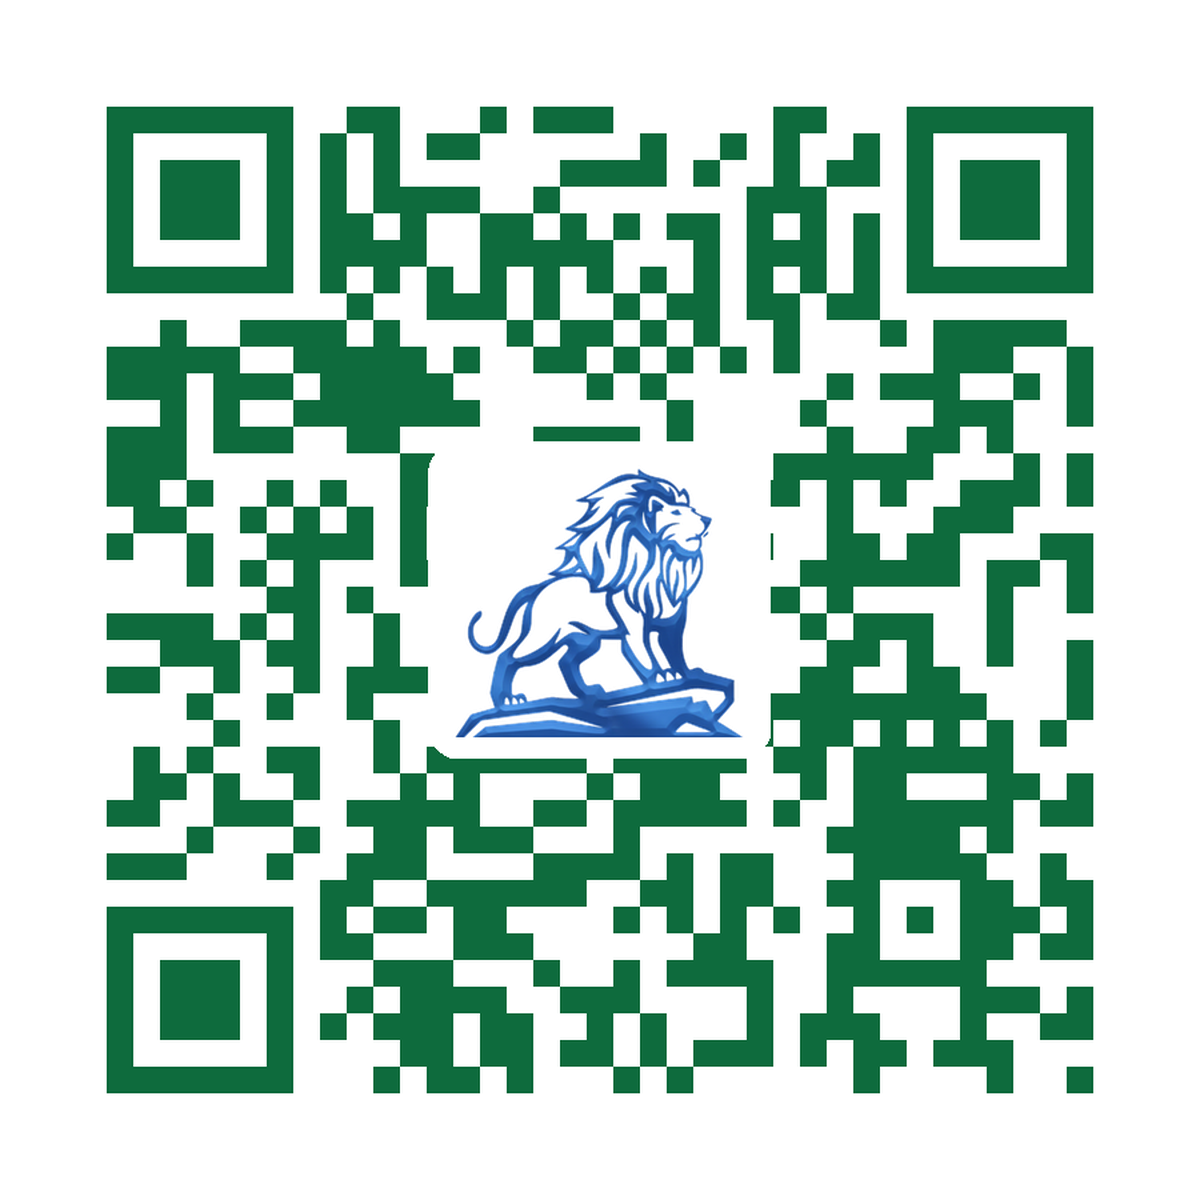
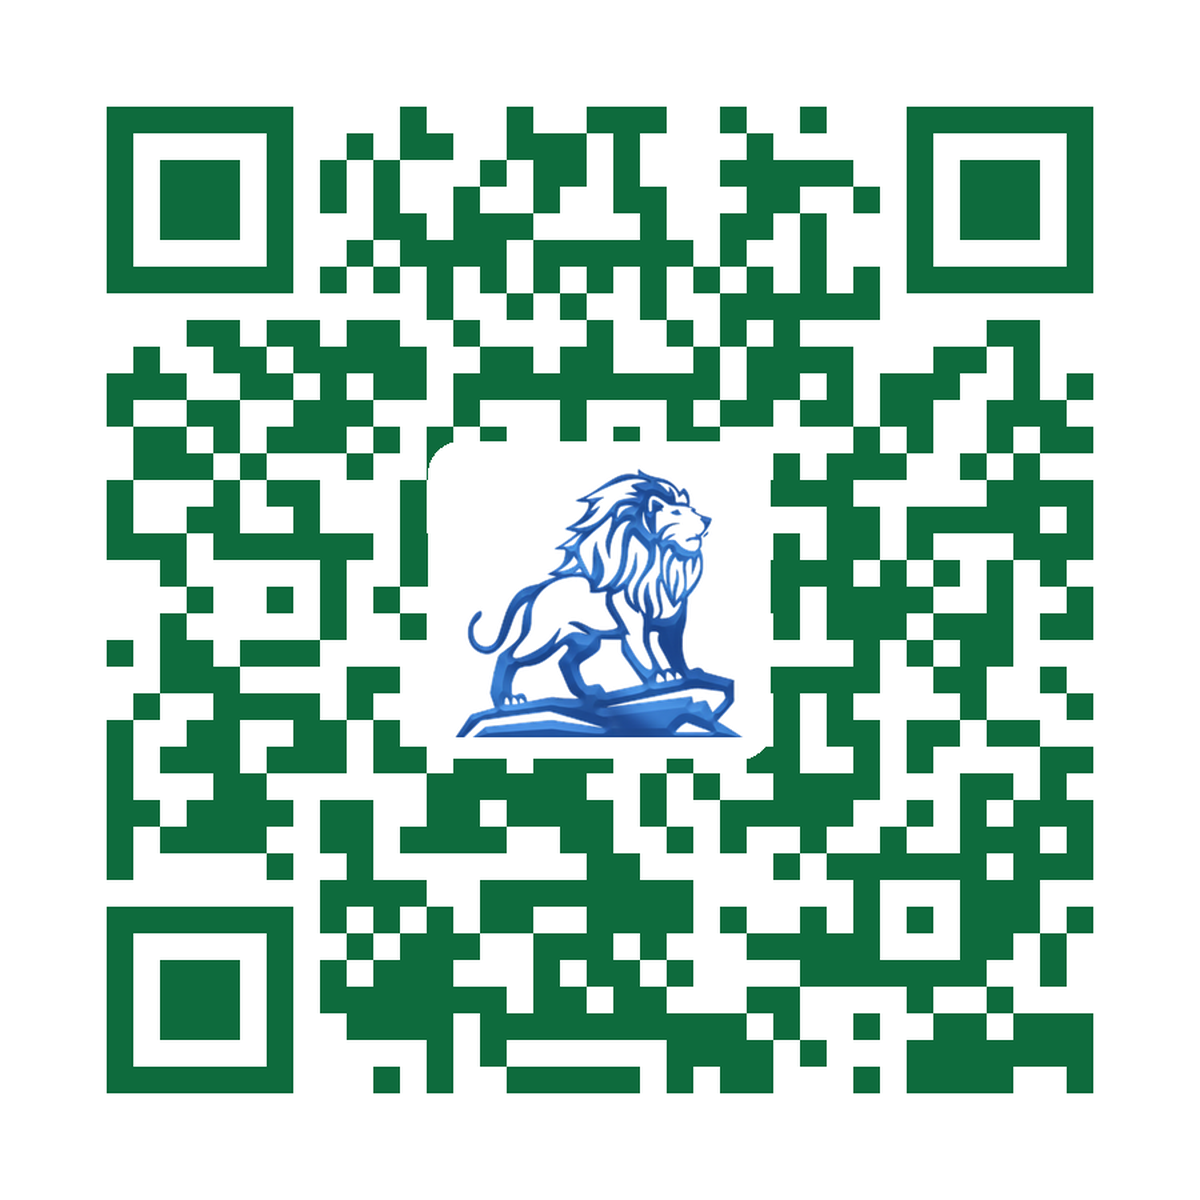
Migrate primary domain to topnochenterprises.com + 301 redirect from old
- SITE_URL, sitemap, robots, checkout fallback, email template URLs all flipped
- vercel.json adds 301 redirect from topnochwealth.com -> topnochenterprises.com
- Assessment QR regenerated pointing at new domain
- OG image regenerated with new domain URL footer
- HANDOFF.md updated with new primary domain + legacy redirect notes

Changed region(s): [[0.0617, 0.0617, 0.925, 0.925]]

diff --git a/src/lib/email.ts b/src/lib/email.ts
@@ -52,7 +52,7 @@ export async function sendAssessmentEmails(data: {
         data.stage ? `, you're at the <strong>${data.stage}</strong> stage` : ""
       }${data.amount ? `, and looking for around <strong>${data.amount}</strong> in funding` : ""}.</p>
       <p>The next step is to talk through your specific situation with Maurice and build your personalized roadmap.</p>
-      ${button("https://topnochwealth.com/strategy#book", "Book Your Free Strategy Call")}
+      ${button("https://topnochenterprises.com/strategy#book", "Book Your Free Strategy Call")}
       <p style="margin-top:32px;color:#666;font-size:14px">— Maurice L. Coleman<br/>Topnoch Enterprises LLC</p>
     </div>
   `;
@@ -104,7 +104,7 @@ export async function sendContactEmails(data: {
       <h1 style="color:#0F2847;font-size:24px">Thanks for reaching out, ${data.name}</h1>
       <p>I got your message and will personally get back to you within 24 hours.</p>
       <p>If your situation is time-sensitive, you can also book a free strategy call directly:</p>
-      ${button("https://topnochwealth.com/strategy#book", "Book a Strategy Call")}
+      ${button("https://topnochenterprises.com/strategy#book", "Book a Strategy Call")}
       <p style="margin-top:32px;color:#666;font-size:14px">— Maurice L. Coleman<br/>Topnoch Enterprises LLC</p>
     </div>
   `;
@@ -151,7 +151,7 @@ export async function sendPurchaseEmails(data: {
   const downloadList = data.ebooks
     .map(
       (e) =>
-        `<li style="margin:12px 0"><a href="https://topnochwealth.com${e.file}" style="color:#1A3A6B;font-weight:bold">${e.title}</a> — <a href="https://topnochwealth.com${e.file}" style="color:#666">Download PDF</a></li>`
+        `<li style="margin:12px 0"><a href="https://topnochenterprises.com${e.file}" style="color:#1A3A6B;font-weight:bold">${e.title}</a> — <a href="https://topnochenterprises.com${e.file}" style="color:#666">Download PDF</a></li>`
     )
     .join("");
 
@@ -166,7 +166,7 @@ export async function sendPurchaseEmails(data: {
         data.ebooks.length > 1 ? "se files" : " file"
       } to your device — these links will keep working, but downloading now means you'll always have a copy.</p>
       <p>Need help applying what you learn?</p>
-      ${button("https://topnochwealth.com/strategy#book", "Book a Free Strategy Call")}
+      ${button("https://topnochenterprises.com/strategy#book", "Book a Free Strategy Call")}
       <p style="margin-top:32px;color:#666;font-size:14px">— Maurice L. Coleman<br/>Topnoch Enterprises LLC</p>
     </div>
   `;

diff --git a/src/app/api/checkout/route.ts b/src/app/api/checkout/route.ts
@@ -17,7 +17,7 @@ export async function POST(req: NextRequest) {
     return NextResponse.json({ error: "Invalid product" }, { status: 400 });
   }
 
-  const origin = req.headers.get("origin") || "https://topnochwealth.com";
+  const origin = req.headers.get("origin") || "https://topnochenterprises.com";
 
   const session = await stripe.checkout.sessions.create({
     mode: "payment",

diff --git a/src/app/robots.ts b/src/app/robots.ts
@@ -7,6 +7,6 @@ export default function robots(): MetadataRoute.Robots {
       allow: "/",
       disallow: ["/api/", "/thank-you/", "/results/", "/ebooks/"],
     },
-    sitemap: "https://topnochwealth.com/sitemap.xml",
+    sitemap: "https://topnochenterprises.com/sitemap.xml",
   };
 }

diff --git a/src/app/layout.tsx b/src/app/layout.tsx
@@ -13,7 +13,7 @@ const geistMono = Geist_Mono({
   subsets: ["latin"],
 });
 
-const SITE_URL = "https://topnochwealth.com";
+const SITE_URL = "https://topnochenterprises.com";
 const OG_IMAGE = `${SITE_URL}/og-image.png`;
 
 export const metadata: Metadata = {

diff --git a/src/app/sitemap.ts b/src/app/sitemap.ts
@@ -1,6 +1,6 @@
 import type { MetadataRoute } from "next";
 
-const BASE = "https://topnochwealth.com";
+const BASE = "https://topnochenterprises.com";
 
 export default function sitemap(): MetadataRoute.Sitemap {
   const now = new Date();

diff --git a/_tools/generate_qr.py b/_tools/generate_qr.py
@@ -2,7 +2,7 @@ import qrcode
 from qrcode.constants import ERROR_CORRECT_H
 from PIL import Image, ImageDraw
 
-URL = "https://topnochwealth.com/services#products"
+URL = "https://topnochenterprises.com/services#products"
 LOGO_PATH = r"C:\Users\ea2en\Projects\top-noch-wealth\public\logo.png"
 OUTPUT_PATH = r"C:\Users\ea2en\Projects\top-noch-wealth\_tools\topnoch-services-qr.png"
 

diff --git a/_tools/generate_qr_batch.py b/_tools/generate_qr_batch.py
@@ -17,7 +17,7 @@ JOBS = [
         "filename": "topnoch-stripe-2-royalblue-qr.png",
     },
     {
-        "url": "https://topnochwealth.com/assessment",
+        "url": "https://topnochenterprises.com/assessment",
         "color": (14, 107, 61),
         "filename": "topnoch-assessment-emerald-qr.png",
     },

diff --git a/_tools/generate_og_image.py b/_tools/generate_og_image.py
@@ -75,7 +75,7 @@ draw.text(
 )
 
 # URL bottom right
-url_text = "topnochwealth.com"
+url_text = "topnochenterprises.com"
 url_bbox = draw.textbbox((0, 0), url_text, font=small_font)
 url_w = url_bbox[2] - url_bbox[0]
 draw.text((W - url_w - 80, H - 50), url_text, font=small_font, fill=gold)

diff --git a/HANDOFF.md b/HANDOFF.md
@@ -22,22 +22,29 @@ All services are owned by **Maurice Coleman** under `info@topnochwealth.com`.
 
 ---
 
-## 2. Domain (DNS — Squarespace)
+## 2. Domains (DNS — Squarespace)
 
-Domain: **topnochwealth.com** — registered with Squarespace, DNS managed there.
+**Primary domain:** `topnochenterprises.com` — registered at Whois.com, DNS delegated to Squarespace (same DNS panel as the old domain).
 
-DNS records currently set:
+**Legacy domain:** `topnochwealth.com` — kept as a 301 redirect to the primary (preserves printed QR codes, Facebook links, SEO). DNS unchanged.
+
+### topnochenterprises.com DNS (at Squarespace)
 
 | Host | Type | Value | Purpose |
 |------|------|-------|---------|
 | `@` | A | `76.76.21.21` | Apex → Vercel |
 | `www` | CNAME | `cname.vercel-dns.com` | www → Vercel |
-| `_vercel` | TXT | `vc-domain-verify=topnochwealth.com,69c0a4775cc6854187db` | Vercel apex verification |
-| `_vercel` | TXT | `vc-domain-verify=www.topnochwealth.com,a94671b56a255871b34c` | Vercel www verification |
 
-If you ever need to reverify or rotate, the values come from **Vercel → Project → Settings → Domains**.
+### topnochwealth.com DNS (legacy — unchanged)
 
-SSL is handled automatically by Vercel.
+| Host | Type | Value | Purpose |
+|------|------|-------|---------|
+| `@` | A | `76.76.21.21` | Apex → Vercel (rewrites to new domain) |
+| `www` | CNAME | `cname.vercel-dns.com` | www → Vercel (rewrites to new domain) |
+
+The 301 redirect from legacy → primary is configured in `vercel.json` (root of repo).
+
+SSL is handled automatically by Vercel for both domains.
 
 ---
 
@@ -45,7 +52,7 @@ SSL is handled automatically by Vercel.
 
 - **Project:** `topnoch-wealth` (ID: `prj_R4s0BF9GGMf1BGKOqqbVIxXytkAu`)
 - **Team:** `info-67975496` (ID: `team_eTx8DDhbZwKRCX9l9IKmFdCM`)
-- **Production URL alias:** `topnochwealth.com`, `www.topnochwealth.com`, `topnoch-wealth-seven.vercel.app`
+- **Production URL aliases:** `topnochenterprises.com` (primary), `www.topnochenterprises.com`, `topnochwealth.com` (301 → primary), `www.topnochwealth.com` (301 → primary), `topnoch-wealth-seven.vercel.app`
 
 ### Environment variables (set in Vercel dashboard, also in `.env.local` for local dev)
 

diff --git a/README.md b/README.md
@@ -4,7 +4,7 @@ Marketing website for Topnoch Enterprises LLC — credit repair, business struct
 
 > Brand: company formerly known as **Topnoch Wealth Enterprises LLC**, renamed to **Topnoch Enterprises LLC** (May 2026). Domain `topnochwealth.com` retained.
 
-**Production:** [topnochwealth.com](https://topnochwealth.com)
+**Production:** [topnochenterprises.com](https://topnochenterprises.com)
 
 For credentials, deployment, and operational tasks, see **[HANDOFF.md](./HANDOFF.md)**.
 
